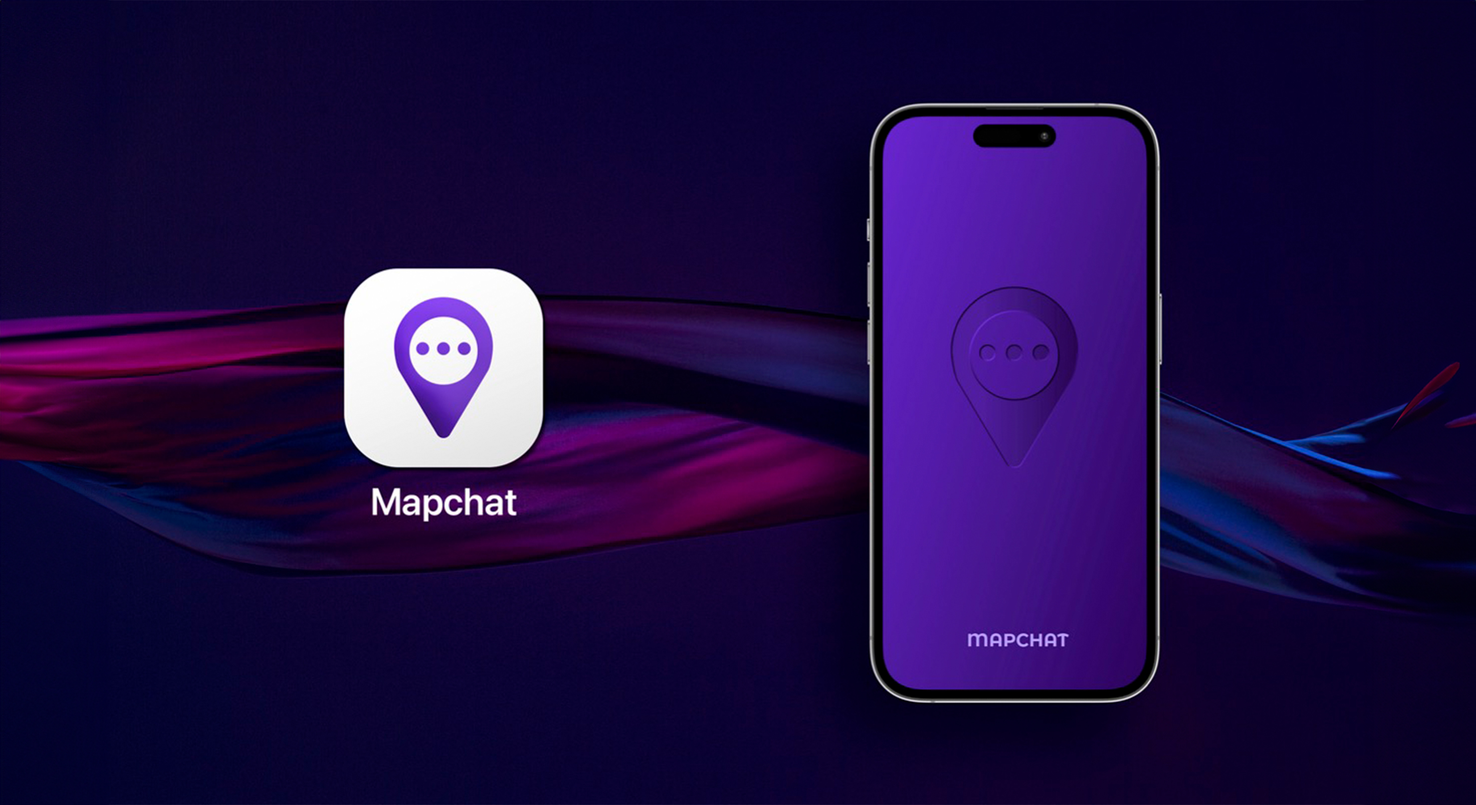
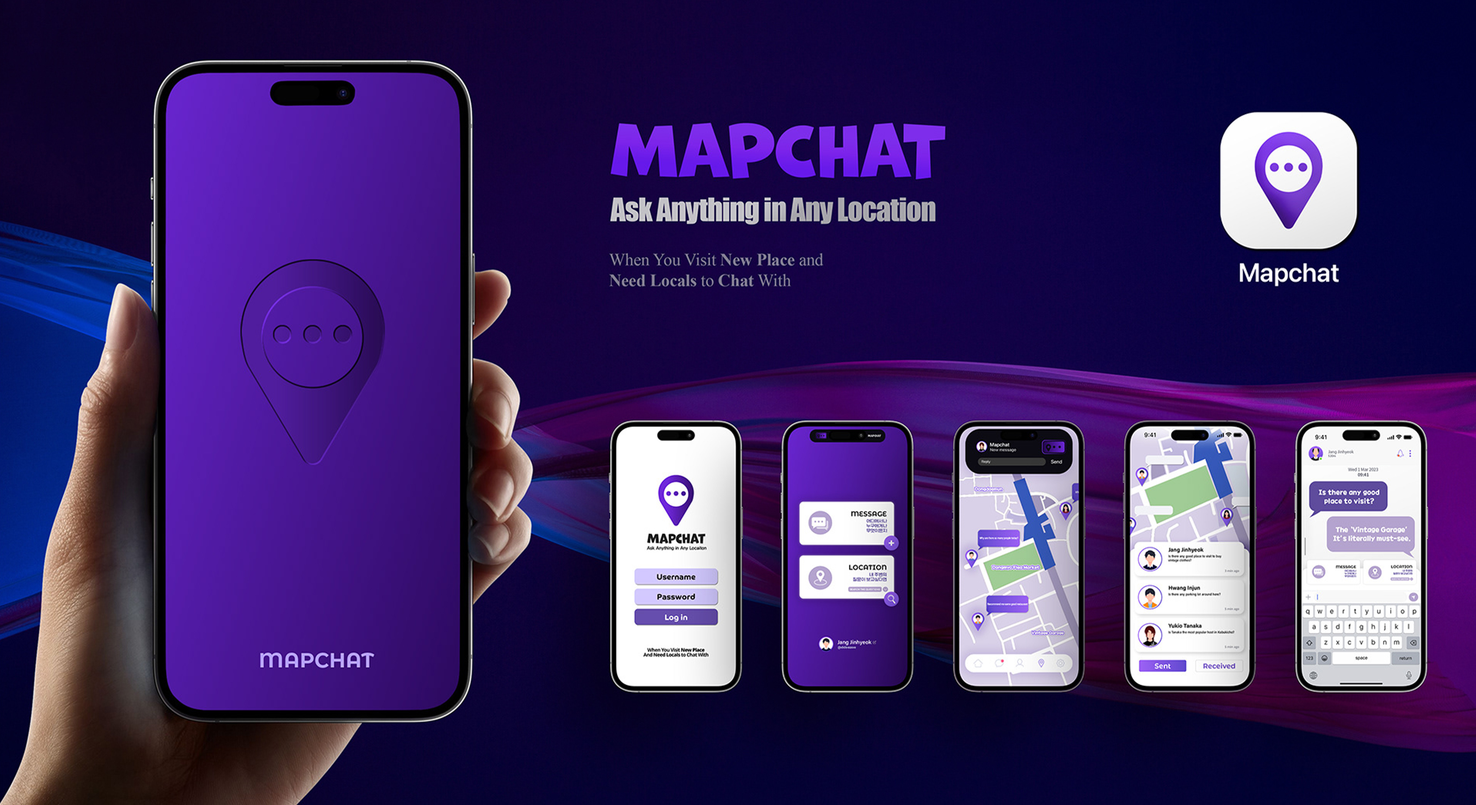
d

diff --git a/interaction/mapchat/index.html b/interaction/mapchat/index.html
@@ -64,48 +64,66 @@
     </div>
 
     <!-- 
-        Category 1 Typography 
+        Category 1
     -->
 
     <hr class="thick-hr">
     <div id="categories">
-        <h1>Poster</h1>
+        <h1>Description</h1>
     </div>
 
     <!-- 1-1 -->
     <hr class="thick-hr">
     <div class="subtitle">
         <div class="subtitle-header">
-            <h1>Color Variation #1</h1>
+            <h1>Description</h1>
             <div class="subtitle-buttons-container">
                 <button class="subtitle-btn detailsButton">Details</button>
             </div>
         </div>
-        <div class="detailsContent">
+        <div class="detailsContent expanded" style="max-height: 500px; opacity: 1;">
             <hr class="thin-hr">
             <div id="webpage_main_image">
-                <div class="webpage_main_image">
-                    <img src="image/p1.gif" alt="ON PUNCTUATION" class="resizable-image">
-                </div>
-                <div class="vertical-line"></div>
                 <div class="image-text">
-                    <h2>On Punctuation</h2>
-                    <p>On Punctuation by Gertrude Stein</p>
-                    <button class="image-text-btn">
-                        <a href="../01_cross-platform-storytelling/index.html">Link to Webpage</a>
-                    </button>
+                    <h2>MapChat (2023)</h2>
+                    <p>
+                        After the COVID-19 pandemic, people communicate online without facing each other. Because people are so accustomed to the virtual method, individuals have difficulties talking to strangers and creating new relationships in person.
+                        <br> <br>
+MapChat is an application that helps online connections to become more significant relationships before meeting in person. MapChat provides services based on user location.
+When users go on a trip to a new tourist destination or enter a new university, they can ask questions and get answers instantly from locals in a radius of 1km.
+<br> <br>
+Existing services such as Google or the school homepage only allow asking an unspecified number of questions. Also, these services consisted of members who already belong to the community and often use slang they only know. This environment could be challenging for newcomers to ask questions.
+<br> <br>
+MapChat allows one to communicate with people in the same place for the same purpose.
+                    </p>
                 </div>
             </div>
             <hr class="thin-hr">
-            <h4>Different people's perspectives expressed in color.</h4>
+            <div class="webpage_main_image">
+                <img src="image/main.jpg" alt="Main Mockup Image" class="resizable-image">
+            </div>
+            
+                </div>
+            </div>
         </div>
     </div>
 
-    <!-- 1-2 -->
-    <hr>
+
+
+    <!-- 
+        Category 2
+    -->
+
+    <hr class="thick-hr">
+    <div id="categories">
+        <h1>Usability Test</h1>
+    </div>
+
+    <!-- 2-1 -->
+    <hr class="thick-hr">
     <div class="subtitle">
         <div class="subtitle-header">
-            <h1>Color Variation #2</h1>
+            <h1>Prototype Image</h1>
             <div class="subtitle-buttons-container">
                 <button class="subtitle-btn detailsButton">Details</button>
             </div>
@@ -114,139 +132,22 @@
             <hr class="thin-hr">
             <div id="webpage_main_image">
                 <div class="webpage_main_image">
-                    <img src="image/p2.gif" alt="256 HOURS" class="resizable-image">
-                </div>
-                <div class="vertical-line"></div>
-                <div class="image-text">
-                    <h2>256 HOURS</h2>
-                    <p>Total amount of hours I watched movies in theater as a Cinephile.</p>
-                    <button class="image-text-btn">
-                        <a href="../02_elastic-collection/index.html">Link to Webpage</a>
-                    </button>
+                    <img src="image/1.jpg" alt="MapChat2" class="resizable-image">
                 </div>
             </div>
-            <hr class="thin-hr">
-            <h4>Metadata and analysis of movies that I watched.</h4>
-        </div>
-    </div>
-
-    <!-- 1-3 -->
-    <hr>
-    <div class="subtitle">
-        <div class="subtitle-header">
-            <h1>Color Variation #3</h1>
-            <div class="subtitle-buttons-container">
-                <button class="subtitle-btn detailsButton">Details</button>
-            </div>
-        </div>
-        <div class="detailsContent">
-
             <hr class="thin-hr">
             <div id="webpage_main_image">
-                <div class="webpage_main_image">
-                    <img src="image/p3.gif" alt="Climate Impact Visualizer" class="resizable-image">
-                </div>
-                <div class="vertical-line"></div>
-                <div class="image-text">
-                    <h2>Climate Impact Visualizer</h2>
-                    <p>Advancing Equitable and Resilient Futures in NYC: Science and Policy for Climate Justice</p>
-                    <button class="image-text-btn">
-                        <a href="../03_new-york-city-in-data/index.html">Link to Webpage</a>
-                    </button>
+                <div id="webpage_main_image">
+                    <div class="webpage_main_image">
+                        <img src="image/2.jpg" alt="MapChat2" class="resizable-image">
+                    </div>
                 </div>
             </div>
-            <hr class="thin-hr">
-            <h4>Interaction in Real-Time Data.</h4>
         </div>
     </div>
 
-    <!-- 1-4 -->
-    <hr>
-    <div class="subtitle">
-        <div class="subtitle-header">
-            <h1>Color Variation #4</h1>
-            <div class="subtitle-buttons-container">
-                <button class="subtitle-btn detailsButton">Details</button>
-            </div>
-        </div>
-        <div class="detailsContent">
-            <hr class="thin-hr">
-            <div id="webpage_main_image">
-                <div class="webpage_main_image">
-                    <img src="image/p3.gif" alt="Climate Impact Visualizer" class="resizable-image">
-                </div>
-                <div class="vertical-line"></div>
-                <div class="image-text">
-                    <h2>Climate Impact Visualizer</h2>
-                    <p>Advancing Equitable and Resilient Futures in NYC: Science and Policy for Climate Justice</p>
-                    <button class="image-text-btn">
-                        <a href="../03_new-york-city-in-data/index.html">Link to Webpage</a>
-                    </button>
-                </div>
-            </div>
-            <hr class="thin-hr">
-            <h4>Interaction in Real-Time Data.</h4>
-        </div>
-    </div>
+    
 
-    <!-- 1-5 -->
-    <hr>
-    <div class="subtitle">
-        <div class="subtitle-header">
-            <h1>Moving Poster</h1>
-            <div class="subtitle-buttons-container">
-                <button class="subtitle-btn detailsButton">Details</button>
-            </div>
-        </div>
-        <div class="detailsContent">
-
-            <hr class="thin-hr">
-            <div id="webpage_main_image">
-                <div class="webpage_main_image">
-                    <img src="image/p3.gif" alt="Climate Impact Visualizer" class="resizable-image">
-                </div>
-                <div class="vertical-line"></div>
-                <div class="image-text">
-                    <h2>Climate Impact Visualizer</h2>
-                    <p>Advancing Equitable and Resilient Futures in NYC: Science and Policy for Climate Justice</p>
-                    <button class="image-text-btn">
-                        <a href="../03_new-york-city-in-data/index.html">Link to Webpage</a>
-                    </button>
-                </div>
-            </div>
-            <hr class="thin-hr">
-            <h4>Interaction in Real-Time Data.</h4>
-        </div>
-    </div>
-
-    <!-- 1-6 -->
-    <hr>
-    <div class="subtitle">
-        <div class="subtitle-header">
-            <h1>Mockup</h1>
-            <div class="subtitle-buttons-container">
-                <button class="subtitle-btn detailsButton">Details</button>
-            </div>
-        </div>
-        <div class="detailsContent">
-            <hr class="thin-hr">
-            <div id="webpage_main_image">
-                <div class="webpage_main_image">
-                    <img src="image/p3.gif" alt="Climate Impact Visualizer" class="resizable-image">
-                </div>
-                <div class="vertical-line"></div>
-                <div class="image-text">
-                    <h2>Climate Impact Visualizer</h2>
-                    <p>Advancing Equitable and Resilient Futures in NYC: Science and Policy for Climate Justice</p>
-                    <button class="image-text-btn">
-                        <a href="../03_new-york-city-in-data/index.html">Link to Webpage</a>
-                    </button>
-                </div>
-            </div>
-            <hr class="thin-hr">
-            <h4>Interaction in Real-Time Data.</h4>
-        </div>
-    </div>
     <hr class="thick-hr">
 
     <!-- 

diff --git a/interaction/daily_share/index.html b/interaction/daily_share/index.html
@@ -153,7 +153,7 @@
             <hr class="thin-hr">
             <div id="webpage_main_image">
                 <div class="webpage_main_image">
-                    <img src="image/mockup2.jpg" alt="Color Variation #1" class="resizable-image">
+                    <img src="image/mockup2.jpg" alt="Daily Share" class="resizable-image">
                 </div>
             </div>
             <hr class="thin-hr">
